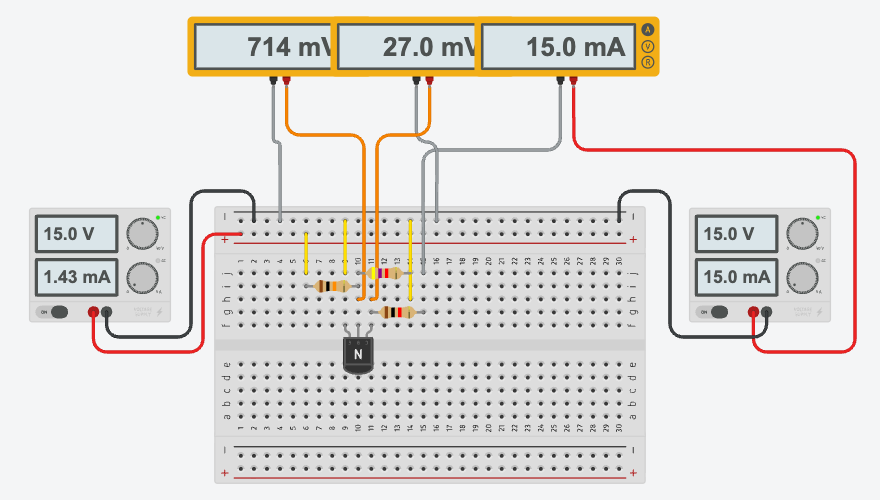
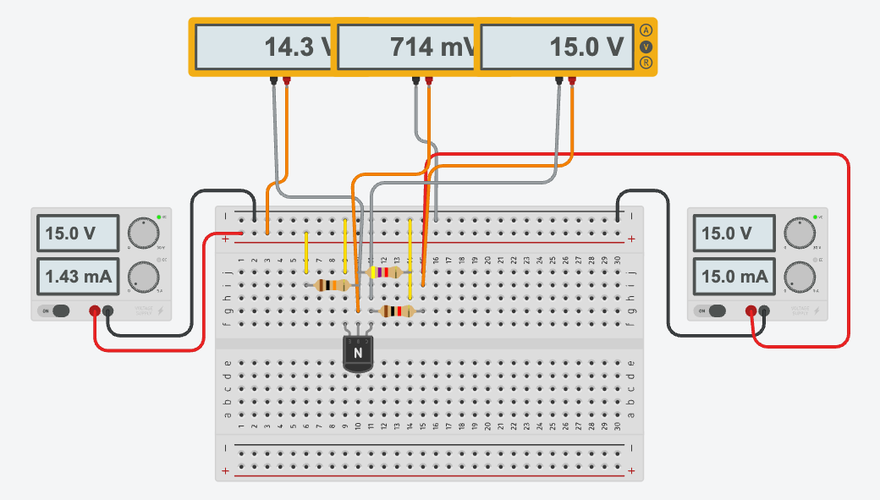
fix(lab2): 實驗二照講義第 9 頁重接電表並重拍，修正六處與講義／助教對不上的地方
- **修正** 實驗一接線配方表漏掉射極接地跳線（j9 → − 軌），照原表接會讓射極浮接、整個電路不會動
- **新增** Tinkercad 設計檔 Lab 2 Exp 2，把三台表改成電壓檔量 V_R1／V_R2／V_RC、電源 B 直接接 j15 拿掉電流表，原本的 Exp 1 設計不動；接線圖與電流分析圖一併重產
- **新增** 助教「Lab 2 實驗量測項目」對 Table 2 的修正：β_Meas 欄被劃掉、要補記 V_BB／V_CC／R1／R2／R_C 五個設定值
- **修正** 講義頁碼三處：CE 放大器電路在第 22 頁（原寫 19）、範例負載線在第 13 頁（原寫 12）、概念圖是第 18 頁
- **修正** 實驗二引用的單電源圖出處（第 12–13 頁補充頁，不是第 9 頁），並說明「兩台都 15 V」是從那裡推回來的
- **修正** 問題 1 的「增益掉 200 倍」與表格的 5.54 → 0.10（約 55 倍）對不上，補上 C3 在 10 kHz 只有 15.9 Ω、旁路不乾淨的算式
- **調整** 三個模式判準標明講義只給了主動區一列、E24 標準值 59.2 Ω 取 62 Ω、Bonus 的 R_e 推導數字前後一致、器材表補回訊號源的高雄／新竹對應
- **新增** V_CE 要直接量集極對地的陷阱（V_CC − V_RC 相減會把 27 mV 吃掉），記錄簿與筆記同步
- **調整** Excel 記錄簿：補五個設定值欄位、電阻改成當天實測（公式引用同幾格）、更新檢查表與備註

Claude-Session: https://claude.ai/code/session_01Gp7vbwdfk3wAQVMChLcyoW

Changed region(s): [[0.0307, 0.03, 0.9818, 0.99]]

diff --git a/simulations/lab2/annotate_current_path.py b/simulations/lab2/annotate_current_path.py
@@ -4,11 +4,14 @@
 用法（專案根目錄）：
     python3 simulations/lab2/annotate_current_path.py
 
-輸入：public/note-images/ec-week6-tinkercad/lab2-exp1-breadboard.png（VBB 2.4 V、VCC 10 V，主動區）
-      public/note-images/ec-week6-tinkercad/lab2-exp2-breadboard.png（VBB = VCC = 15 V，飽和區）
+輸入：public/note-images/ec-week6-tinkercad/lab2-exp1-breadboard.png（VBB 2.4 V、VCC 10 V，主動區，
+      電表 1／2 量 V_BE／V_CE、電表 3 是串在集極的電流表）
+      public/note-images/ec-week6-tinkercad/lab2-exp2-breadboard.png（VBB = VCC = 15 V，飽和區，
+      三台都是電壓檔，照講義第 9 頁量 V_R1／V_R2／V_RC，集極迴路沒有電流表）
 輸出：同資料夾的 *-current.png（原圖保留不覆蓋）
 
-兩張圖接線完全相同、只有電源設定與讀值不同，所以共用一組座標、各自換標題與讀值說明。
+兩張圖的麵包板座標系統相同（欄距、列高一樣），但量測接法不同，所以各有一個 painter：
+exp1 用 paint_exp1()、exp2 用 paint_exp2()。
 畫法原語在 ../tools/current_overlay.py，規範見
 `.claude/skills/lab-workflow/references/current-path-overlay.md`。
 座標全部以「原圖 1 倍尺寸」（880×500）為單位：欄距 13 px、第 1 欄 x = 241、j 列 y = 273。
@@ -81,20 +84,45 @@ BADGES = [
     ("5", (318, 352)), ("6", (330, 252)), ("7", (191, 264)),
     ("8", (753, 332)), ("9", (714, 150)), ("10", (397, 338)), ("11", (670, 264)),
 ]
+# 實驗二拿掉電流表之後，9 號落在新的 VCC 走線上（y 從 150 改成 154）
+BADGES_E2 = [(t, (714, 154) if t == "9" else pt) for t, pt in BADGES]
+
+# ---- 實驗二：集極迴路不經電流表，電源 B 正端直接接 j15 ----
+LOOP_B_E2 = [
+    VCC_P, (755, 347), (849, 347), (849, 154), (427, 154),
+    (colx(15), ROW["j"]), (colx(15), ROW["g"]),
+    (colx(11), ROW["g"]),                                  # RC：g15 → g11（集極節點）
+    (colx(11), ROW["f"]),                                  # 集極腳 f11
+    (colx(9), ROW["f"]),                                   # 電晶體內部：集極 → 射極 f9
+    (colx(9), ROW["j"]), (colx(9), RAIL_MINUS),
+    (colx(30), RAIL_MINUS), (618, 191), (670, 191), (670, 337), (768, 337), VCC_N,
+]
+# 實驗二的三台電壓表：V_R1（+ 軌 ↔ h10）、V_R2 ＝ V_BE（g10 ↔ − 軌）、V_RC（i15 ↔ h11）
+E2_M1_R = [V1_RED, (287, 183), (colx(3), 183), (colx(3), RAIL_PLUS)]
+E2_M1_B = [V1_BLK, (279, 197), (363, 197), (colx(10), ROW["h"])]
+E2_M2_R = [V2_RED, (426, 174), (352, 174), (colx(10), ROW["g"])]
+E2_M2_B = [V2_BLK, (419, 139), (433, 145), (colx(16), RAIL_MINUS)]
+E2_M3_R = [A_RED, (576, 166), (430, 166), (colx(15), ROW["i"])]
+E2_M3_B = [A_BLK, (555, 183), (colx(11), 183), (colx(11), ROW["h"])]
 
 
-def painter_factory(title, left_note, right_note, mid_note, bottom_note):
+def painter_factory(title, left_note, right_note, mid_note, bottom_note, exp2=False):
     def paint(canvas, d, T):
         big, small, num = f(36), f(28), f(28)
         W = canvas.size[0]
         path(d, [T(p) for p in LOOP_A])
         path(d, [T(p) for p in BRANCH_R2], w=10)
-        path(d, [T(p) for p in LOOP_B1])
-        path(d, [T(p) for p in LOOP_B2])
-        path(d, [T(A_RED), T(A_BLK)], dash=True, w=10, period=14, arrows=False)    # 電流表內部
-        for pts in (V1_PATH_R, V1_PATH_B, V2_PATH_R, V2_PATH_B):
+        if exp2:
+            path(d, [T(p) for p in LOOP_B_E2])
+            probes = (E2_M1_R, E2_M1_B, E2_M2_R, E2_M2_B, E2_M3_R, E2_M3_B)
+        else:
+            path(d, [T(p) for p in LOOP_B1])
+            path(d, [T(p) for p in LOOP_B2])
+            path(d, [T(A_RED), T(A_BLK)], dash=True, w=10, period=14, arrows=False)  # 電流表內部
+            probes = (V1_PATH_R, V1_PATH_B, V2_PATH_R, V2_PATH_B)
+        for pts in probes:
             path(d, [T(p) for p in pts], col=BLUE, w=6, dash=True, period=22, arrows=False)
-        for t, p in BADGES:
+        for t, p in (BADGES_E2 if exp2 else BADGES):
             badge(d, T(p), t, num)
         label(d, (W // 2, 26), title, big, GREEN_TXT, align="center")
         label(d, T((6, 128)), left_note, small, BLUE_TXT)
@@ -121,11 +149,12 @@ def main():
         os.path.join(IMG_DIR, "lab2-exp2-breadboard.png"),
         os.path.join(IMG_DIR, "lab2-exp2-breadboard-current.png"),
         painter_factory(
-            "實驗二：VBB = VCC = 15 V，電晶體深度飽和（V_CE 只剩 27 mV）",
-            "左表 V_BE：714 mV\n中表 V_CE：27 mV\n集極幾乎被拉到地電位",
-            "右表 I_C：15.0 mA\n≈ (15 V − 0.027 V) / 1 kΩ\n電流由 RC 決定，不再由基極決定",
-            "基極電流 I_B ＝ I_VBB − V_BE / R2\n＝ 1.43 mA − 0.152 mA ≈ 1.28 mA",
+            "實驗二：VBB = VCC = 15 V，三台電表都用電壓檔量壓降（講義第 9 頁的做法）",
+            "左表 V_R1：14.3 V（+ 軌 ↔ h10）\n中表 V_R2 ＝ V_BE：714 mV（g10 ↔ − 軌）\n藍虛線只量電位差，不分流",
+            "右表 V_RC：15.0 V（i15 ↔ h11）\nI_C ＝ V_RC / R_C ＝ 15.0 mA\n集極迴路沒有電流表",
+            "I_B ＝ V_R1/R1 − V_R2/R2\n＝ 1.43 mA − 0.152 mA ≈ 1.28 mA",
             "β_forced ＝ I_C / I_B ＝ 15.0 / 1.28 ≈ 11.7，遠小於正常 β\n→ 這就是講義問題 1 的答案：Table 2 的工作點在飽和區",
+            exp2=True,
         ),
         scale=SCALE, pad=PAD,
     )

diff --git a/simulations/lab2/build_record_xlsx.py b/simulations/lab2/build_record_xlsx.py
@@ -174,8 +174,8 @@ rows = [
     ('3', '藍色字是寫死的輸入：講義規格或 LTspice 模擬結果。黑色字是公式。'),
     ('4', '實驗一要量四組 VBB × 31 個 VCC；時間不夠時先把 2.2 V 與 2.4 V 兩組量完，'),
     ('', '　　這兩組才看得出主動區的平坦段，1.5 V 那組全程截止、量五點確認就好。'),
-    ('5', 'I_C 一律由集極電阻的壓降換算（I_C = V_RC / R_C），電流表只在實驗二串一次；'),
-    ('', '　　兩種方法的差異就是誤差來源，結報要寫。'),
+    ('5', 'I_C 一律由集極電阻的壓降換算（I_C = V_RC / R_C）——講義第 8 頁與第 9 頁都是這樣要求的，'),
+    ('', '　　兩個實驗都不必把電流表串進集極迴路，三用電表全程留在電壓檔。'),
     ('6', '離開實驗室前跑一次每張工作表下方的「當天拍照檢查表」。'),
     ('', ''),
     ('填寫範例（實驗一，VBB = 2.4 V）', ''),
@@ -293,11 +293,20 @@ ws.add_chart(ch, f'{get_column_letter(23)}{HROW}')
 ws = wb.create_sheet('實驗二 beta')
 title_block(ws, '實驗二：電流增益 β 的量測（Table 2）',
             '講義第 9–10 頁：V_BB = V_CC = 15 V，量 R1／R2 壓降求 I_B（KCL），量 R_C 壓降求 I_C', 7)
-ws['A4'] = '電阻值 (Ω)'
+ws['A3'] = '電源設定值'
+ws['A3'].font = BOLD
+for j, (lab, v) in enumerate((('V_BB (V)', 15), ('V_CC (V)', 15))):
+    put(ws, 3, 2 + j * 2, lab)
+    put(ws, 3, 3 + j * 2, v, fill=FILL_IN, fmt='0.00')
+ws['A4'] = '電阻實測值 (Ω)'
 ws['A4'].font = BOLD
 for j, (lab, v) in enumerate((('R1', R1), ('R2', R2), ('R_C', RC))):
     put(ws, 4, 2 + j * 2, lab)
-    put(ws, 4, 3 + j * 2, v, font=BLUE, fmt='0')
+    put(ws, 4, 3 + j * 2, v, fill=FILL_IN, fmt='0')
+ws.cell(row=5, column=1,
+        value='↑ 這五格是助教在 Table 2 旁邊特別要求記錄的（V_BB、V_CC、R_C、R1、R2）。'
+              '電阻先填的是標稱值，開工前用三用電表各量一次改成實測值——±5% 的色環電阻常差到幾百歐姆，'
+              '下面所有電流與 β 都是用這三格算的。').font = NOTE
 
 head(ws, 6, ['量測項目', '實測', '單位', '算式', 'LTspice 預報', '差異 (%)', '備註'],
      widths=[26, 14, 10, 30, 16, 12, 34])
@@ -305,14 +314,16 @@ items = [
     ('R1 兩端壓降 V_R1', 'V', None, round(15 - E2['vbe'], 3), '量 V_BB 對基極'),
     ('R2 兩端壓降 V_R2', 'V', None, round(E2['vbe'], 3), '等於 V_BE（R2 與 B-E 並聯）'),
     ('R_C 兩端壓降 V_RC', 'V', None, round(15 - E2['vce'], 3), '量 V_CC 對集極'),
-    ('V_CE', 'V', None, round(E2['vce'], 3), '集極對射極；深度飽和時只剩幾十 mV'),
+    ('V_CE', 'V', None, round(E2['vce'], 3),
+     '直接量集極對地，不要用 V_CC − V_RC 相減（兩個 15 V 量級的數相減，誤差會和待測值同級）'),
     ('I_R1 = V_R1 / R1', 'mA', '=IF(B7="","",B7/$C$4*1000)', round(E2['i_r1'], 3), '流進基極節點的總電流'),
     ('I_R2 = V_R2 / R2', 'mA', '=IF(B8="","",B8/$E$4*1000)', round(E2['i_r2'], 3), '被 R2 分掉、沒進基極的那一份'),
     ('I_B = I_R1 − I_R2', 'mA', '=IF(OR(B7="",B8=""),"",B11-B12)', round(E2['ib'], 3), 'KCL：講義第 9 頁第 3 步'),
     ('I_C = V_RC / R_C', 'mA', '=IF(B9="","",B9/$G$4*1000)', round(E2['ic'], 3), '不必串電流表就能得到'),
     ('β_calculate = I_C / I_B', '—', '=IF(OR(B13="",B13=0,B14=""),"",B14/B13)', round(E2['beta'], 2),
      '這是「強迫 β」，飽和時遠小於真正的 β'),
-    ('β_measure（三用電表 hFE 檔）', '—', None, None, '把電晶體拔下來插 hFE 座；這才是主動區的 β'),
+    ('β_measure（三用電表 hFE 檔）', '—', None, None,
+     '助教把 Table 2 的 β_Meas 欄劃掉了，這格不抄進 Table 2，但仍要量——它是問題 1 的證據'),
 ]
 r = 7
 for label, unit, formula, lt, memo in items:
@@ -352,8 +363,10 @@ ch.set_categories(Reference(ws, min_col=1, min_row=ROW_BETA, max_row=ROW_BETA + 
 ws.add_chart(ch, 'I25')
 
 checklist(ws, r + 3, [
-    ('Table 2 五個量都填完', 'V_R1、V_R2、V_RC、V_CE、β_measure'),
-    ('電晶體 hFE 讀值照片 1 張', '拔下來插 hFE 座量到的 β，結報要對照'),
+    ('四個壓降都量到', 'V_R1、V_R2、V_RC、V_CE（V_CE 要直接量，不要相減）'),
+    ('五個設定值都記下', 'V_BB、V_CC 與 R1／R2／R_C 的實測值，助教要求'),
+    ('Table 2 三欄填完', '講義 Table 2 只要 I_B、I_C、β_calculate（β_Meas 已被助教劃掉）'),
+    ('電晶體 hFE 讀值照片 1 張', '拔下來插 hFE 座量到的 β，寫自己的記錄表、不抄進 Table 2'),
     ('飽和的證據 1 張', 'V_CE 只剩幾十 mV 的電表畫面'),
 ])
 
